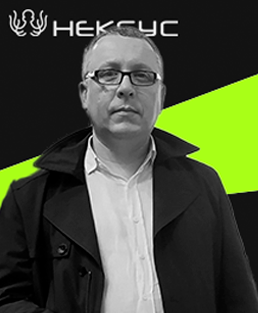
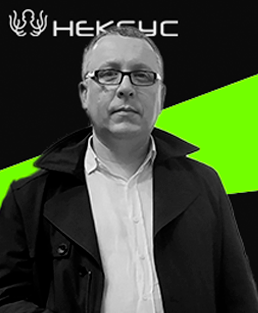
feat(card-testimonial): add new testimonial card and update styles
- Add new testimonial card for ADYLS NURMANBETOV with finance quote
- Update existing Kirill Boyarinov testimonial card
- Add CSS styles for onwer card-testimonial-3 layout
- Improve responsive design for testimonial cards

Changed region(s): [[0.5891, 0.23, 1.0, 0.6326], [0.0, 0.4888, 0.155, 0.6613]]

diff --git a/public/assets/css/main.css b/public/assets/css/main.css
@@ -982,6 +982,41 @@ div#onwer .card-testimonial-3:hover {
     border-color: rgba(255, 255, 255, 0.12) !important;
     box-shadow: 0 8px 32px rgba(0, 0, 0, 0.3);
 }
+div#onwer .card-testimonial-3 .card-image {
+    min-width: 221px;
+    max-width: 221px;
+}
+div#onwer .card-testimonial-3 .card-info {
+    padding: 34px 32px;
+}
+div#onwer .card-testimonial-3 .card-info .text-md {
+    font-size: 15px;
+    line-height: 1.55;
+}
+div#onwer .card-testimonial-3 .card-info .card-author-review {
+    margin-top: 24px;
+}
+div#onwer .card-testimonial-3 .card-info .card-author-review .author-name {
+    font-size: 13px;
+    line-height: 15px;
+}
+div#onwer .card-testimonial-3 .card-info .card-author-review .author-tag {
+    font-size: 11px;
+    line-height: 13px;
+}
+div#onwer .card-testimonial-3 .card-rate img {
+    width: 14px;
+    height: 14px;
+}
+@media (max-width: 991px) {
+    div#onwer .card-testimonial-3 .card-image {
+        min-width: 100%;
+        max-width: 100%;
+    }
+    div#onwer .card-testimonial-3 .card-info {
+        padding: 18px 18px;
+    }
+}
 
 /* Cookie banner */
 .cookie-banner {

diff --git a/resources/views/welcome.blade.php b/resources/views/welcome.blade.php
@@ -689,12 +689,22 @@
                             <div class="card-rate"><img src="{{ asset('assets/imgs/page/homepage1/star.svg') }}" alt=""><img src="{{ asset('assets/imgs/page/homepage1/star.svg') }}" alt=""><img src="{{ asset('assets/imgs/page/homepage1/star.svg') }}" alt=""><img src="{{ asset('assets/imgs/page/homepage1/star.svg') }}" alt=""><img src="{{ asset('assets/imgs/page/homepage1/star.svg') }}" alt=""></div>
                         </div>
                     </div>
+                    <div class="card-testimonial-3 mb-30">
+                        <div class="card-image"><img src="{{ asset('assets/imgs/page/homepage1/img-review-finance.png') }}" alt="{{ config('app.name') }}" loading="lazy" decoding="async"></div>
+                        <div class="card-info">
+                            <p class="text-md neutral-500"><i class="fi-rr-quote-right"></i>&nbsp;{{ __('Финансовая архитектура платформы выстроена так, чтобы обеспечивать прозрачную структуру капитала, контролируемую доходность инструментов и устойчивость модели роста на каждом этапе проектного цикла.') }}"</p>
+                            <div class="card-author-review">
+                                <div class="card-author-info"><span class="author-name">{{__('АДЫЛ НУРМАНБЕТОВ')}}</span><span class="author-tag">{{__('Финансовый директор - соучредитель')}}</span></div>
+                            </div>
+                            <div class="card-rate"><img src="{{ asset('assets/imgs/page/homepage1/star.svg') }}" alt=""><img src="{{ asset('assets/imgs/page/homepage1/star.svg') }}" alt=""><img src="{{ asset('assets/imgs/page/homepage1/star.svg') }}" alt=""><img src="{{ asset('assets/imgs/page/homepage1/star.svg') }}" alt=""><img src="{{ asset('assets/imgs/page/homepage1/star.svg') }}" alt=""></div>
+                        </div>
+                    </div>
                     <div class="card-testimonial-3">
                         <div class="card-image"><img src="{{ asset('assets/imgs/page/homepage1/img-review-k.png') }}" alt="{{ config('app.name') }}" loading="lazy" decoding="async"></div>
                         <div class="card-info">
                             <p class="text-md neutral-500"><i class="fi-rr-quote-right"></i>&nbsp;{{ __('Я проектирую платформу как целостный механизм, в котором архитектура, код и каждый технический узел связаны в одну логику — превратить сложную финансовую “машину” в управляемую, безопасную и предсказуемую среду роста для проектов и инвесторов.') }}"</p>
                             <div class="card-author-review">
-                                <div class="card-author-info"><span class="author-name">{{__('КИРИЛЛ БОЯРИНОВ')}}</span><span class="author-tag">{{__('Автор, системный архитектор, тимлид - соучредитель')}}</span></div>
+                                <div class="card-author-info"><span class="author-name">{{__('КИРИЛЛ БОЯРИНОВ')}}</span><span class="author-tag">{{__('Автор, системный архитектор - соучредитель')}}</span></div>
                             </div>
                             <div class="card-rate"><img src="{{ asset('assets/imgs/page/homepage1/star.svg') }}" alt=""><img src="{{ asset('assets/imgs/page/homepage1/star.svg') }}" alt=""><img src="{{ asset('assets/imgs/page/homepage1/star.svg') }}" alt=""><img src="{{ asset('assets/imgs/page/homepage1/star.svg') }}" alt=""><img src="{{ asset('assets/imgs/page/homepage1/star.svg') }}" alt=""></div>
                         </div>
